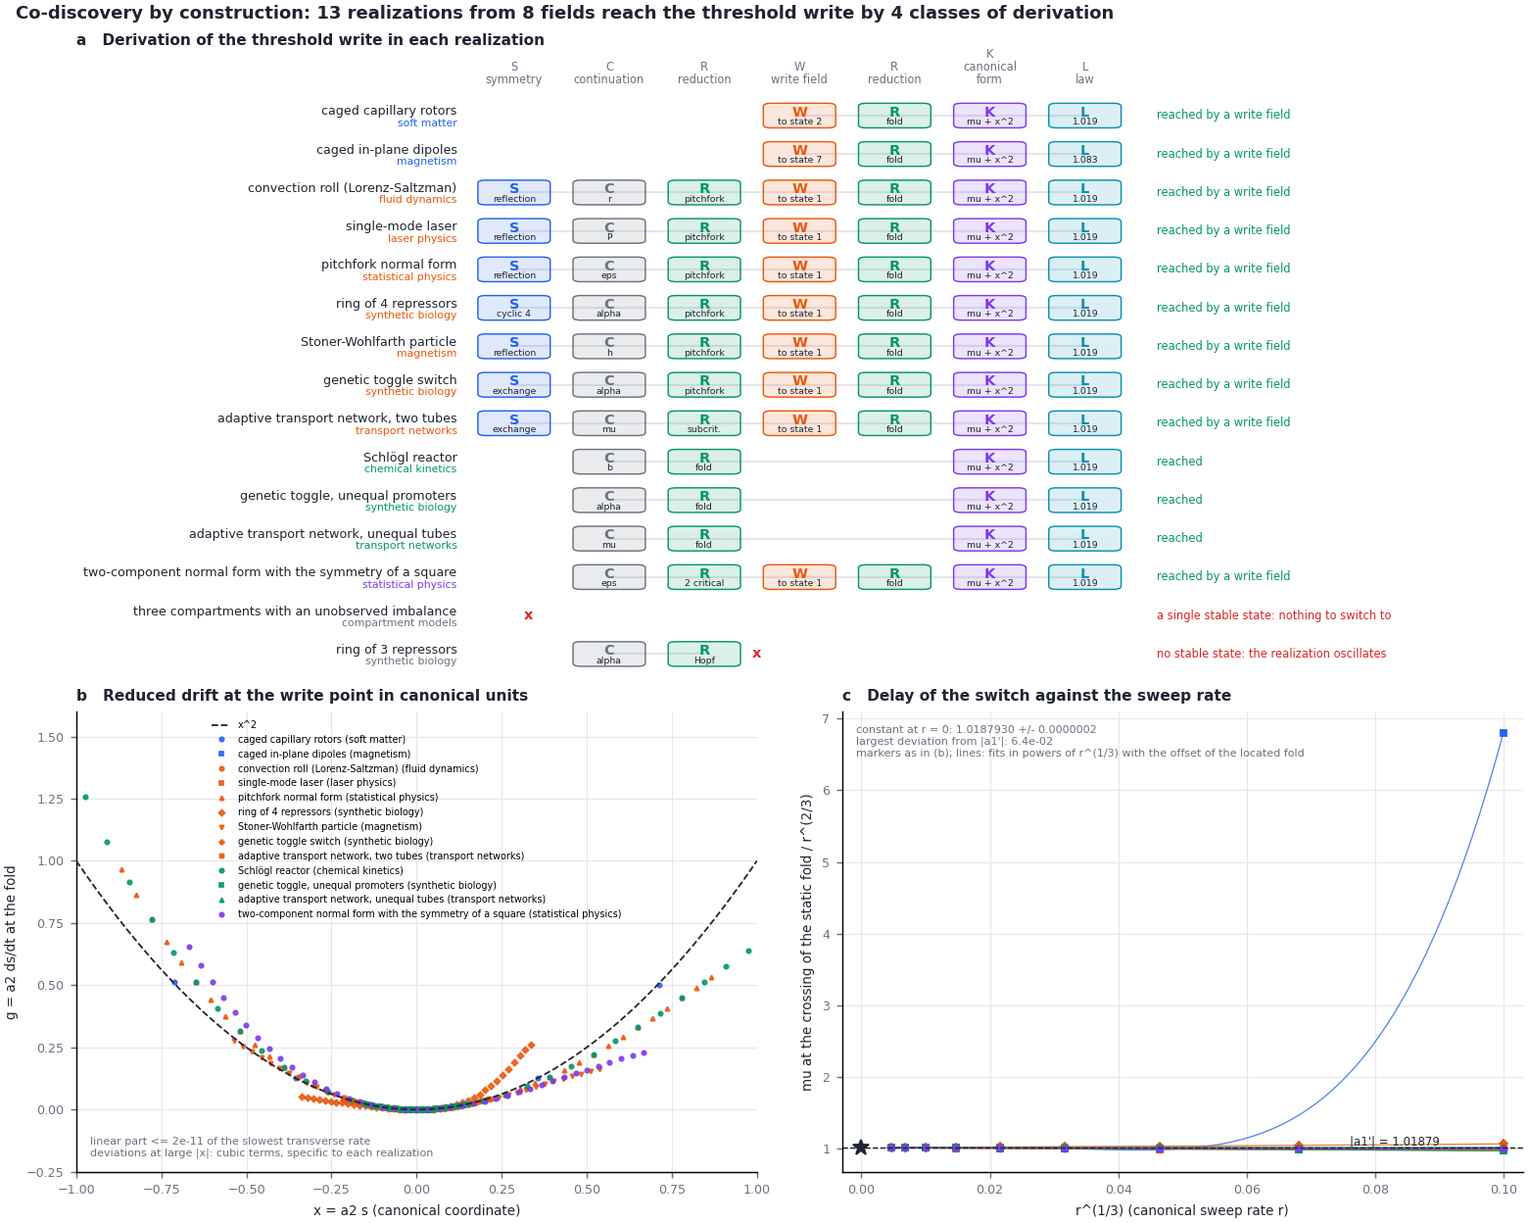
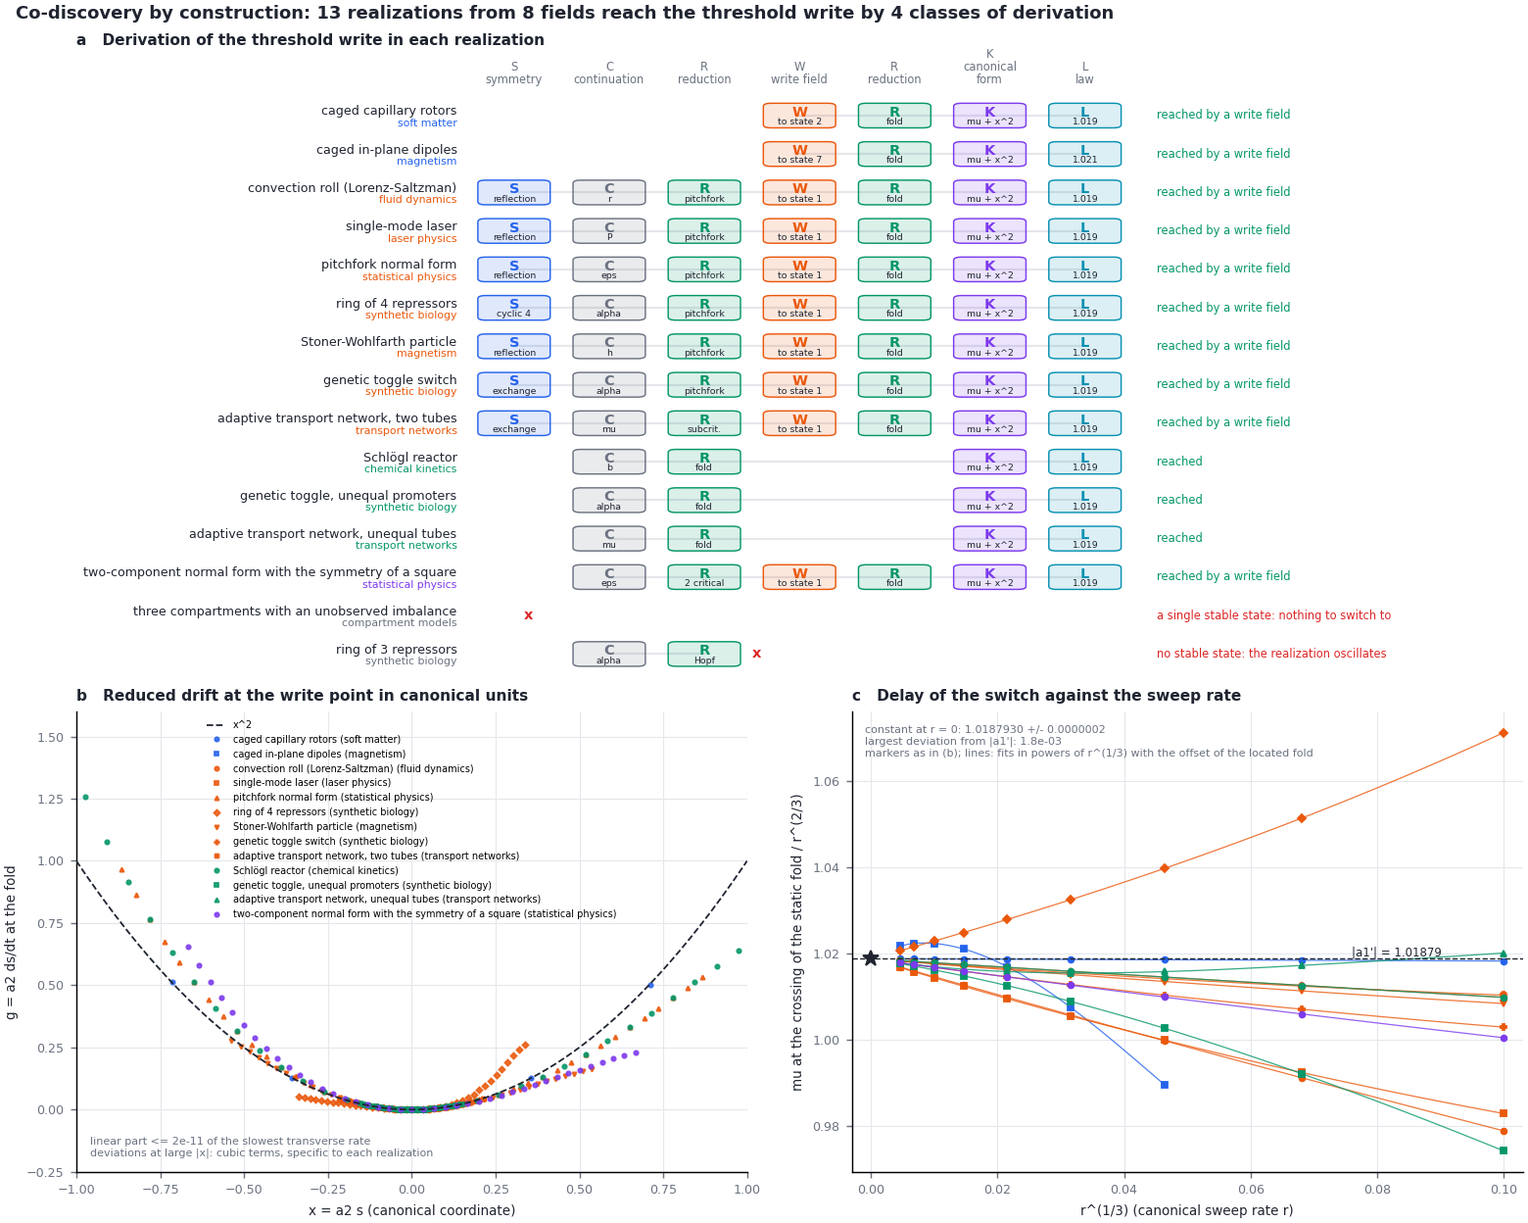
Start every delay-law sweep on the branch of the occupied state
fold_delay_law started each sweep at mu = -5 r^(2/3) from a root search near
the parabola of the fold, and accepted the start if the search converged on a
stable state on the side of the occupied state. It did not check that this
state lies on the branch that ends at the fold. Where a2 b is small, the fast
rates start far from the fold in the parameter. For the dipole pair 8 -> 7
drawn in the default run of Module 10 (a2 = -0.078, c3 = 3.2), the sweep at
r = 1e-3 started on a distant state, crossed at 6.8 r^(2/3) and dominated the
fit (1.08 +- 0.31).

off_branch now follows the start of the slowest sweep along the parameter.
That start is used only if its branch ends at the fold, by the test with which
locate_writes takes two write points for one. The start of each faster sweep
must be the state reached by following the previous start outward. Rates are
taken from the slowest up, and the first one that cannot be used ends the
series, so that the fit rests on the slowest rates. The rates left out are
reported with the reason, and derive_threshold_write notes them. Rows are fitted
in the order of the given rates, as before.

Two tests use a constructed fold, dx/dt = h - g(x) with
g' = A (x^2 - 1)(x^2 - c^2), whose occupied branch ends at a second fold. In
the first, the two fastest starts lie beyond that fold. With the test of the
branch removed, the root search finds the second stable state there and both
[…]

diff --git a/fieldbridge/memory/codiscovery.py b/fieldbridge/memory/codiscovery.py
@@ -95,8 +95,9 @@ TARGET_INFO = {
         "law": "delay of the switch under a sweep mu = r t: the static fold is crossed at mu = |a1'| r^(2/3)",
         "constant_name": "|a1'|", "constant": DELAY_CONSTANT,
         "K": "x = a2 s and mu = a2 b (p - p_f), so that the reduced drift is mu + x^2",
-        "L": "the parameter is swept through the fold without noise at rates r = 1e-3 to 1e-7 (canonical units); "
-             "the delay of the crossing is extrapolated to r = 0"},
+        "L": "the parameter is swept through the fold without noise at rates r = 1e-3 to 1e-7 (canonical units), "
+             "each from a start on the branch of the occupied state; the delay of the crossing is extrapolated to "
+             "r = 0"},
     "phase-locking": {
         "title": "phase locking", "letters": "SCRKL", "canonical": "nu - sin phi", "check": "averaged drift",
         "target": "phase locking (Adler equation, dpsi/dt = Delta omega - K sin phi)",
@@ -478,6 +479,34 @@ def canonical_fold(real: Realization, param: str, q_f: np.ndarray, p_f: float, n
             "mode": vec.tolist(), "left_mode": w.tolist()}
 
 
+def off_branch(real: Realization, param: str, q0: Optional[np.ndarray], p0: float, q_f: np.ndarray, p_f: float,
+               previous: Optional[Tuple[np.ndarray, float]] = None) -> Optional[str]:
+    """Why the start q0 at p0 of a sweep through the fold (q_f, p_f) is not the occupied state, or None if it is. q0 is
+    None where the root search found no stable state on the side of the occupied state.
+
+    Without a previous start, q0 is followed along the parameter toward the fold and through it (analysis.track), and
+    must disappear at the fold, by the test with which locate_writes takes two write points for one: within
+    WRITE_RESOLUTION of the followed range in the parameter, within four merge tolerances in the state. Otherwise the
+    previous start, which passed this test, is followed away from the fold to p0: the branch must reach p0, and q0
+    must be the state it reaches."""
+    if previous is None:
+        if q0 is None:
+            return "no stable state at the start of the slowest sweep"
+        _, ev = an.track(real, param, q0, p0, 2.0 * p_f - p0)
+        if ev is None or abs(ev["v"] - p_f) > an.WRITE_RESOLUTION * 2.0 * abs(p_f - p0) \
+                or real.carrier.distance(np.asarray(ev["q"], float), q_f) > 4 * an._merge_tol(real):
+            return "the branch of the slowest start does not end at the fold"
+        return None
+    branch, ev = an.track(real, param, previous[0], previous[1], p0)
+    if ev is not None:
+        return "the branch of the occupied state ends before the start"
+    if q0 is None:
+        return "the root search found no stable state at the start"
+    if real.carrier.distance(np.asarray(branch[-1]["q"], float), q0) > an._merge_tol(real):
+        return "the root search converged on another state"
+    return None
+
+
 def fold_delay_law(real: Realization, param: str, q_f: np.ndarray, p_f: float, canon: Dict,
                    rates=DELAY_RATES, tau: float = 5.0) -> Dict[str, object]:
     """Sweep the parameter through the fold without noise, p = p_f + r t / (a2 b), and record the time t0 at which the
@@ -486,34 +515,53 @@ def fold_delay_law(real: Realization, param: str, q_f: np.ndarray, p_f: float, c
     shifts every crossing by the same mu and adds delta r^(-2/3) to t0 r^(1/3): a term that grows at slow rates and,
     left out, biases an extrapolation to r = 0. The root search of refine_fold leaves a delta that depends on the
     model and on the rounding of the machine, between 1e-13 and 1e-10 for the rotor patch; at the slowest rate 1e-10
-    adds 5e-6. The constant is therefore fitted with this term (delay_constant). Each sweep starts on the occupied
-    branch at mu = -tau r^(2/3)."""
+    adds 5e-6. The constant is therefore fitted with this term (delay_constant).
+
+    Each sweep starts at mu = -tau r^(2/3), at a state found by a root search from the parabola of the fold, and is
+    used only if that state is the occupied state on the branch that ends at the fold (off_branch). Where a2 b is
+    small, the fast rates start far from the fold in the parameter: for a pair of states of the caged dipoles
+    (a2 = -0.078) the search at r = 1e-3 converged on a stable state 3.9 from the fold, on the side of the occupied
+    state, whose sweep crossed at 6.8 r^(2/3) and dominated the fit. The rates are taken from the slowest up, and the
+    first one that cannot be used ends the series: the fit rests on the slowest rates, and the rates left out are
+    listed with the reason."""
     from scipy.integrate import solve_ivp
     vec, w = np.asarray(canon["mode"], float), np.asarray(canon["left_mode"], float)
     a2, k = canon["a2"], canon["mu_per_unit_parameter"]
-    rows = []
-    for r in rates:
+    found: Dict[int, Dict[str, object]] = {}
+    left_out: List[Dict[str, object]] = []
+    previous = None  # the start of the last sweep used, (state, parameter)
+    for i in sorted(range(len(rates)), key=lambda j: rates[j]):
+        r = rates[i]
+        if left_out:
+            left_out.append({"rate": float(r), "reason": "a slower sweep was left out"})
+            continue
         rho = r / k
         t_start = -tau * r ** (-1 / 3)
         p_start = p_f + rho * t_start
         q0, ok = an.newton(real, _shift(real, q_f, (-sqrt(tau) * r ** (1 / 3) / a2) * vec), {param: p_start})
         s0 = float(w @ real.carrier.diff(q_f, q0))
-        if not ok or a2 * s0 >= 0 or an.n_unstable(an.kappa_spectrum(real, q0, {param: p_start})) > 0:
-            continue  # at this rate the start lies beyond the branch of the occupied state
+        stable = ok and a2 * s0 < 0 and an.n_unstable(an.kappa_spectrum(real, q0, {param: p_start})) == 0
+        reason = off_branch(real, param, q0 if stable else None, p_start, q_f, p_f, previous)
+        if reason is None:
+            def rhs(t, q, rho=rho):
+                return real.F(q, **{param: p_f + rho * t})
 
-        def rhs(t, q, rho=rho):
-            return real.F(q, **{param: p_f + rho * t})
+            def cross(t, q):
+                return float(w @ real.carrier.diff(q_f, q))
 
-        def cross(t, q):
-            return float(w @ real.carrier.diff(q_f, q))
-
-        cross.terminal, cross.direction = True, float(np.sign(a2))
-        sol = solve_ivp(rhs, (t_start, 8.0 * r ** (-1 / 3)), q0, method=DELAY_SOLVER, rtol=1e-12, atol=1e-14,
-                        events=cross)
-        if sol.t_events[0].size:
-            rows.append({"rate": float(r), "parameter_rate": float(rho),
-                         "constant": float(sol.t_events[0][0] * r ** (1 / 3))})
-    out: Dict[str, object] = {"rows": rows, "expected": DELAY_CONSTANT}
+            cross.terminal, cross.direction = True, float(np.sign(a2))
+            sol = solve_ivp(rhs, (t_start, 8.0 * r ** (-1 / 3)), q0, method=DELAY_SOLVER, rtol=1e-12, atol=1e-14,
+                            events=cross)
+            if sol.t_events[0].size:
+                found[i] = {"rate": float(r), "parameter_rate": float(rho),
+                            "constant": float(sol.t_events[0][0] * r ** (1 / 3))}
+                previous = (q0, p_start)
+            else:
+                reason = "the state does not cross the static fold during the sweep"
+        if reason is not None:
+            left_out.append({"rate": float(r), "reason": reason})
+    rows = [found[i] for i in sorted(found)]  # in the order of the rates given, the order in which they are fitted
+    out: Dict[str, object] = {"rows": rows, "left_out": left_out, "expected": DELAY_CONSTANT}
     if len(rows) >= 5:
         out.update(delay_constant([row["rate"] for row in rows], [row["constant"] for row in rows]))
     return out
@@ -650,6 +698,10 @@ def derive_threshold_write(real: Realization, rng, check_law: bool = True, n_tra
         law = fold_delay_law(target_real, param, q_f, p_f, canon)
         w = np.asarray(canon["left_mode"], float)
         law["noise_rate"] = float(canon["a2"] ** 2 * real.noise * float(w @ w))
+        if law["left_out"]:
+            first = law["left_out"][0]
+            notes.append(f"{len(law['left_out'])} of {len(law['left_out']) + len(law['rows'])} sweeps were left out, "
+                         f"from r = {first['rate']:.1e} up: {first['reason']}")
         if "constant" in law:
             const = {"constant": law["constant"], "stderr": law["stderr"], "expected": DELAY_CONSTANT}
             word.append("L")

diff --git a/tests/test_memory_constructor.py b/tests/test_memory_constructor.py
@@ -637,6 +637,69 @@ def test_a_fold_shifted_by_hand_appears_as_the_offset_of_the_delay_law():
         delta * slowest["rate"] ** (-2 / 3), rel=0.05)
 
 
+def _quintic_fold(A=0.14, c=1.2):
+    """dx/dt = h - g(x), g' = A (x^2 - 1)(x^2 - c^2). The occupied state, -1 < x < 1, exists for |h| < g(1) and
+    disappears at the fold x = 1, h = g(1); a second stable state, x < -c, exists for h < g(-c). With A = 0.14 the
+    coefficient a2 b of the canonical form is 0.062, small as for a pair of states of the caged dipoles."""
+    from fieldbridge.memory import codiscovery as cd
+    base = json.loads((EX / "pitchfork.json").read_text(encoding="utf-8"))
+    base.pop("potential")
+    base.update(name="quintic fold", parameters={"h": 0.0, "A": A, "c": c},
+                drift={"x": "h - A*(x**5/5 - (1 + c**2)*x**3/3 + c**2*x)"}, control={"name": "h", "range": [-0.3, 0.3]})
+    real = spec.load(base)
+    g1 = A * (1 / 5 - (1 + c ** 2) / 3 + c ** 2)
+    q_f, p_f = cd.refine_fold(real, "h", np.array([0.999]), g1 - 1e-6)
+    canon = cd.canonical_fold(real, "h", q_f, p_f, an.normal_form(real, q_f, "h", p_f))
+    return real, q_f, p_f, canon, g1
+
+
+def test_a_sweep_that_would_start_beyond_the_branch_of_the_occupied_state_is_left_out(monkeypatch):
+    """The sweeps start at mu = -5 r^(2/3), far from the fold in the parameter where a2 b is small. For the two
+    fastest rates the start lies below h = -g(1), where the branch of the occupied state has ended at its other fold,
+    and the root search converges on the second stable state, on the side of the occupied state. Without the test of
+    the branch these sweeps are used; with it they are left out, and the other sweeps and the fit are those of a run
+    without the two rates."""
+    from fieldbridge.memory import codiscovery as cd
+    real, q_f, p_f, canon, g1 = _quintic_fold()
+    assert p_f == pytest.approx(g1, abs=1e-9) and canon["mu_per_unit_parameter"] == pytest.approx(0.44 * 0.14)
+    beyond = [r for r in cd.DELAY_RATES if p_f - 5 * r ** (2 / 3) / canon["mu_per_unit_parameter"] < -g1]
+    assert beyond == list(cd.DELAY_RATES[:2])
+    law = cd.fold_delay_law(real, "h", q_f, p_f, canon)
+    assert [x["rate"] for x in law["left_out"]] == sorted(beyond)
+    assert [x["reason"] for x in law["left_out"]] == ["the branch of the occupied state ends before the start",
+                                                      "a slower sweep was left out"]
+    alone = cd.fold_delay_law(real, "h", q_f, p_f, canon, rates=cd.DELAY_RATES[2:])
+    assert alone["left_out"] == [] and law["rows"] == alone["rows"] and law["constant"] == alone["constant"]
+    monkeypatch.setattr(cd, "off_branch", lambda *args, **kwargs: None)
+    unchecked = cd.fold_delay_law(real, "h", q_f, p_f, canon)
+    assert [row["rate"] for row in unchecked["rows"]] == list(cd.DELAY_RATES)  # the root search found a stable state
+    assert unchecked["rows"][2:] == law["rows"]
+
+
+def test_a_sweep_left_out_ends_the_series_so_that_the_fit_rests_on_the_slowest_rates(monkeypatch):
+    """The start of the sweep at r = 3.2e-5 is refused by hand. The faster sweep is left out with it rather than
+    leaving a gap, and the constant is fitted over the five slower sweeps, which are unchanged."""
+    from fieldbridge.memory import codiscovery as cd
+    real, q_f, p_f, canon, _ = _quintic_fold()
+    rates = cd.DELAY_RATES[2:]
+    full = cd.fold_delay_law(real, "h", q_f, p_f, canon, rates=rates)
+    refused = p_f - 5 * rates[1] ** (2 / 3) / canon["mu_per_unit_parameter"]
+    original = cd.off_branch
+
+    def refuse(real_, param, q0, p0, *args, **kwargs):
+        if abs(p0 - refused) < 1e-9:
+            return "refused by the test"
+        return original(real_, param, q0, p0, *args, **kwargs)
+
+    monkeypatch.setattr(cd, "off_branch", refuse)
+    law = cd.fold_delay_law(real, "h", q_f, p_f, canon, rates=rates)
+    assert law["left_out"] == [{"rate": rates[1], "reason": "refused by the test"},
+                               {"rate": rates[0], "reason": "a slower sweep was left out"}]
+    assert law["rows"] == full["rows"][2:]
+    fit = cd.delay_constant([row["rate"] for row in law["rows"]], [row["constant"] for row in law["rows"]])
+    assert law["constant"] == fit["constant"] and law["stderr"] == fit["stderr"]
+
+
 def test_a_root_search_for_the_fold_that_stops_early_is_restarted(monkeypatch):
     """A root search can stop before it converges, and its result can still pass the test of the residual: on one
     machine this displaced the fold of the rotor patch by 9e-9 in canonical units. Here the first search for the

diff --git a/docs/tutorial/25_memory_threshold_write.md b/docs/tutorial/25_memory_threshold_write.md
@@ -57,7 +57,7 @@ The command takes about one minute.
 | two equal tubes | transport networks | SCRWRKL | $h = 0.06396$ | 0.163 | 1.0187929 ± 0.0000009 |
 | two-component normal form, square symmetry | statistical physics | CRWRKL | $h = 0.1062$ | −0.713 | 1.0187929 ± 0.0000009 |
 | caged capillary rotors | soft matter | WRKL | $h = 4.2912$ | −0.019 | 1.0187930 ± 0.0000005 |
-| caged in-plane dipoles | magnetism | WRKL | $h = 0.1776$ | 3.205 | 1.08 ± 0.31 |
+| caged in-plane dipoles | magnetism | WRKL | $h = 0.1776$ | 3.205 | 1.021 ± 0.005 |
 | ring of 3 repressors | synthetic biology | CR | stops: no stable state | — | — |
 | three compartments | compartment models | — | stops: a single stable state | — | — |
 
@@ -74,8 +74,9 @@ differs between the models.
 
 *Figure 1. The threshold write. (a) The derivation in each model; W is the write field. (b) The reduced drift at the
 fold in the canonical coordinate, against $x^2$. (c) The value of $\mu$ at which the state crosses the position of
-the static fold, divided by $r^{2/3}$, against $r^{1/3}$ for sweeps at canonical rates $r = 10^{-3}$ to $10^{-7}$;
-the lines are the fits of Section 3, and the star marks $\lvert a_1'\rvert = 1.01879$.*
+the static fold, divided by $r^{2/3}$, against $r^{1/3}$ for sweeps at canonical rates $r = 10^{-3}$ to $10^{-7}$
+(for the dipoles from $10^{-4}$, Section 3); the lines are the fits of Section 3, and the star marks
+$\lvert a_1'\rvert = 1.01879$.*
 
 Two results deserve a remark. First, with $a = 4.5$ and $k_3 = 5.75$ the Schlögl drift in $y = x - 3/2$ is
 $-y^3 + y + (b - 15/8)$: the reactor is the Landau model in the field $h = 15/8 - b$. The constructor gives the same
@@ -126,6 +127,16 @@ converges, and the fit contains the term
 largest of three numbers: the change when the fourth-order term is left out, the largest change when one rate is
 left out, and $5 \times 10^{-7}$, the accuracy of the canonical scale $a_2 b$ and of the integration.
 
+**The start of each sweep.** A sweep starts on the occupied state at $\mu = -5\,r^{2/3}$, that is $5\,r^{2/3}/(a_2 b)$
+before the fold in the units of the parameter. Where $a_2 b$ is small, the fast sweeps therefore start far from the
+fold, where the branch of the occupied state may already have ended at another fold, or where the root search for
+the start converges on another stable state. The constructor follows the start of the slowest sweep along the
+parameter and checks that its branch ends at the fold; the start of each faster sweep must be the state reached by
+following the previous start. The rates are taken from the slowest up, and the first rate whose start fails this
+check ends the series, so that the fit rests on the slowest rates; the report lists the rates left out and the reason
+(`test_a_sweep_that_would_start_beyond_the_branch_of_the_occupied_state_is_left_out`,
+`test_a_sweep_left_out_ends_the_series_so_that_the_fit_rests_on_the_slowest_rates`).
+
 In eleven of the thirteen models the constant lies within $1.2 \times 10^{-6}$ of $\lvert a_1'\rvert$, and the
 weighted mean is $1.0187930 \pm 0.0000002$. Apart from the dipoles (below), the slopes of the corrections range from
 $-0.45$ for the laser to $+0.40$ for the ring of four, as the fifth-order coefficients differed for the symmetric
@@ -134,12 +145,16 @@ the unequal tubes the corrections are large and alternate in sign: the sweep at 
 the sweep at $r = 3 \times 10^{-5}$ 0.32% below it, and the slowest one still 0.1% below. Their constant,
 $1.01877 \pm 0.00029$, lies $2 \times 10^{-5}$ from $\lvert a_1'\rvert$.
 
-For the caged in-plane dipoles the field writes from one sampled stored state to another. The pair drawn in this run
-has a small quadratic coefficient, $a_2 = -0.078$, and a large cubic one, $c_3 = 3.2$, so a canonical rate corresponds
-to a wide range of the field. The fast sweeps then start at a reversed field, away from the branch of the occupied
-state: at $r = 3 \times 10^{-4}$ no stationary state is found at the start, and that rate is left out; at
-$r = 10^{-3}$ the sweep starts on a distant state and crosses at $6.8\,r^{2/3}$. The fit is dominated by this sweep
-and gives $1.08 \pm 0.31$, which does not test the law; the slowest sweeps lie 0.3% above $\lvert a_1'\rvert$.
+For the caged in-plane dipoles the field writes from one sampled stored state to another. For the pair drawn in this
+run the quadratic coefficient is small, $a_2 = -0.078$, and the cubic one large, $c_3 = 3.2$. The occupied state
+exists only between two folds, at the coercive field $h = 0.1776$ and at a reversed field, $h = -0.020$; in
+canonical units this is the window $\mu > -0.012$. The sweeps at $r = 3 \times 10^{-4}$ and $10^{-3}$ would start at
+$\mu = -0.023$ and $-0.050$, beyond its lower end, where the root search finds no stable state
+($r = 3 \times 10^{-4}$) or converges on a distant one ($r = 10^{-3}$), whose sweep crosses at $6.8\,r^{2/3}$. These
+two sweeps are left out. Over the seven slower ones the constant is $1.021 \pm 0.005$, which contains
+$\lvert a_1'\rvert$. Its uncertainty is sixteen times that of the unequal tubes, because the corrections are large:
+the fit begins $1.0206 + 0.56\,r^{1/3} - 40\,r^{2/3}$, and even the slowest sweeps lie 0.3% above
+$\lvert a_1'\rvert$.
 
 The law holds in the limit of small noise. In the variables of Eq. (2) the noise intensity is $a_2^2 D_s/r$, so the
 deterministic delay is observed for sweeps faster than the rate $a_2^2 D_s$ given in the report; slower sweeps
@@ -211,9 +226,11 @@ specification.
   control, or by a write field where a symmetry, a degenerate critical mode or a scale control prevents a threshold
   along the control.
 - The switch lags behind a sweep by $\mu = \lvert a_1'\rvert r^{2/3}$; the constant $\lvert a_1'\rvert = 1.0187930$,
-  the first zero of $\mathrm{Ai}'$, is recovered to $1.2 \times 10^{-6}$ in eleven models and to $2 \times 10^{-5}$ in
-  the unequal tubes, within its uncertainty in each. For the pair of dipole states drawn in the default run the fast
-  sweeps start off the branch of the occupied state, and the fit does not test the law.
+  the first zero of $\mathrm{Ai}'$, is recovered to $1.2 \times 10^{-6}$ in eleven models, to $2 \times 10^{-5}$ in
+  the unequal tubes and to $2 \times 10^{-3}$ in the caged dipoles, within its uncertainty in each.
+- Each sweep starts on the branch of the occupied state. For the pair of dipole states drawn in the default run this
+  branch ends at a second fold, close to the first in canonical units, and the two fastest sweeps, which would start
+  beyond it, are left out.
 - An error of the located fold adds a term $\delta\,r^{-2/3}$ to the measured constant; the fit contains it.
 - The Schlögl reactor with the parameters of the example is exactly the Landau model in a field.
 - A symmetry makes the symmetric write possible and the threshold write impossible along the same parameter; a
@@ -225,6 +242,7 @@ specification.
 | --- | --- | --- |
 | Threshold write: derivation, fold, canonical form | `codiscovery.derive_threshold_write`, `refine_fold`, `canonical_fold` | `test_threshold_write_by_the_control_by_a_field_and_its_obstruction`, `test_a_root_search_for_the_fold_that_stops_early_is_restarted` |
 | Delay of the switch | `codiscovery.fold_delay_law`, `delay_constant` | `test_a_field_writes_the_landau_model_at_the_coercive_field_with_the_airy_delay`, `test_the_delay_constant_is_the_first_zero_of_the_airy_derivative`, `test_the_delay_fit_recovers_the_constant_when_the_fold_is_mislocated`, `test_a_fold_shifted_by_hand_appears_as_the_offset_of_the_delay_law` |
+| Start of each sweep on the branch of the occupied state | `codiscovery.off_branch`, `fold_delay_law` | `test_a_sweep_that_would_start_beyond_the_branch_of_the_occupied_state_is_left_out`, `test_a_sweep_left_out_ends_the_series_so_that_the_fit_rests_on_the_slowest_rates` |
 | Report and figure | [`cli.cmd_codiscover`](../../fieldbridge/memory/cli.py), [`visual.codiscovery_figure`](../../fieldbridge/memory/visual.py) | `test_codiscover_command_writes_report_and_figure` |
 
 Sources: R. Haberman, SIAM J. Appl. Math. 37, 69 (1979); P. Jung, G. Gray, R. Roy and P. Mandel, Phys. Rev. Lett.
